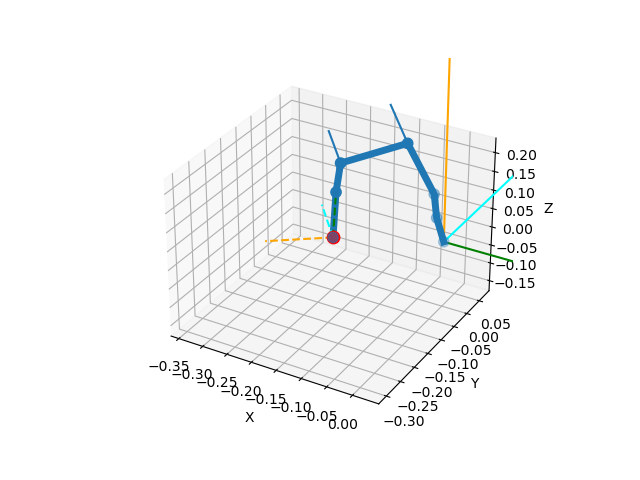
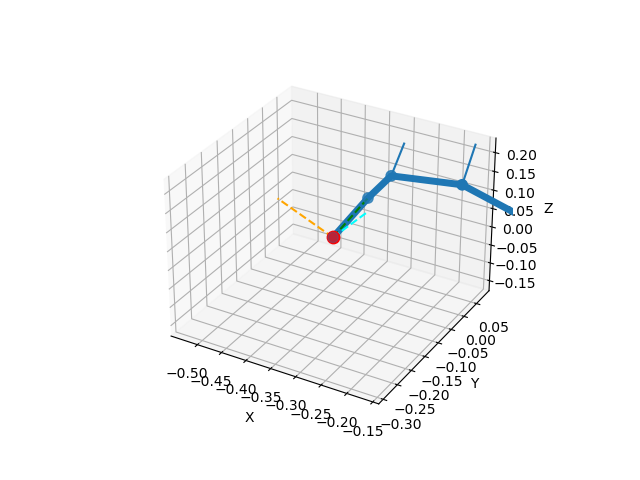
globalMin

Changed region(s): [[0.25, 0.125, 0.8125, 0.9062], [0.4375, 0.1875, 0.4688, 0.2188]]

diff --git a/controllers/gripper/gripper_globalMin.py b/controllers/gripper/gripper_globalMin.py
@@ -1,0 +1,312 @@
+import os
+import math
+import threading
+import queue
+import time
+import ikpy.chain
+import numpy as np
+import re
+import matplotlib.pyplot as plt
+import ikpy.utils.plot as plot_utils
+
+# 🌟 [추가된 부분] 유전 알고리즘(진화 연산) 도구 소환!
+from scipy.optimize import differential_evolution
+
+os.environ['WEBOTS_HOME'] = '/usr/local/webots'
+os.environ['WEBOTS_CONTROLLER_URL'] = "ipc://1234/MyRobot"
+
+from controller import Robot
+
+# ---------------------------------------------------------
+# 1⃣ [역기구학 세팅]
+# ---------------------------------------------------------
+print("🦴 URDF 뼈대 정보를 불러오는 중...")
+my_arm_chain = ikpy.chain.Chain.from_urdf_file(
+    "ikpy_robot.urdf", 
+    base_elements=["link0"], 
+    active_links_mask=[False, True, True, True, True, True, False]
+)
+
+print("✅ 로봇 내비게이션(IK) 준비 완료!")
+
+# ---------------------------------------------------------
+# 2⃣ [오프셋 & 부호 세팅]
+# ---------------------------------------------------------
+JOINT_OFFSETS = {
+    'joint_1': -0.07,
+    'joint_2': 1.774,
+    'joint_3': -1.182,
+    'joint_4': -1.237,
+    'joint_5': 0.0,
+    'joint_6': math.radians(-40) 
+}
+
+# 🚀 설계도(URDF)를 완벽하게 고쳤으므로 방향 강제 보정 해제!
+JOINT_SIGNS = {
+    'joint_1': 1,  
+    'joint_2': 1,  
+    'joint_3': 1,   
+    'joint_4': 1,
+    'joint_5': 1,
+    'joint_6': 1
+}
+
+robot = Robot()
+timestep = int(robot.getBasicTimeStep())
+
+motors = {}
+for name in JOINT_OFFSETS.keys():
+    motor = robot.getDevice(name)
+    if motor:
+        motor.setVelocity(1.0)
+        motors[name] = motor
+
+same_dir_joints = ['joint_6_mimic_L1', 'joint_6_mimic_R2', 'joint_6_mimic_R3', 'joint_6_mimic_gear', 'joint_6_mimic_R1', 'joint_6_mimic_L2', 'joint_6_mimic_L3']
+same_motors = [robot.getDevice(name) for name in same_dir_joints if robot.getDevice(name)]
+
+def set_motor_angle_rad(motor_name, target_angle_rad):
+    if motor_name in motors:
+        sign = JOINT_SIGNS.get(motor_name, 1)
+        corrected_target = target_angle_rad * sign
+        offset_rad = JOINT_OFFSETS.get(motor_name, 0.0)
+        final_rad = corrected_target + offset_rad
+        motors[motor_name].setPosition(final_rad)
+        return final_rad
+    return None
+
+# ---------------------------------------------------------
+# 3⃣ [수동 검증 터미널 쓰레드] 웅철이 맞춤형 디버깅 툴!
+# ---------------------------------------------------------
+command_queue = queue.Queue()
+
+def terminal_input_thread():
+    print("\n=======================================================")
+    print(" 🛠 IK 디버깅 모드 (계산 따로, 조종 따로!)")
+    print(" 1. 계산 명령: calc X Y Z (예: calc 0.2 0.0 0.1)")
+    print(" 2. 개별 관절 이동: j관절번호 각도 (예: j1 45, j2 -30)")
+    print(" 3. 집게 이동: grip 각도 (예: grip 10)")
+    print(" (종료하려면 exit 입력)")
+    print("=======================================================\n")
+    
+    while True:
+        try:
+            # 1. 입력 받기
+            raw_input = input("\n명령 입력 (calc/j1~5/grip): ")
+            user_input = raw_input.strip()
+            
+            # 🔍 [디버깅 1] 입력된 문자열의 정체 확인
+            print(f"🔍 DEBUG: 원본 문자열 -> '{user_input}' (길이: {len(user_input)})")
+            
+            if not user_input:
+                continue
+            if user_input.lower() == 'exit':
+                os._exit(0)
+            
+            # 2. 단어 분리
+            parts = user_input.split()
+            print(f"🔍 DEBUG: 분리된 단어들 -> {parts} (개수: {len(parts)})")
+            
+            if not parts:
+                continue
+                
+            cmd = parts[0].lower()
+            
+            # 💡 [모드 1] 역기구학 계산
+            # 💡 [모드 1] 역기구학 계산 및 각도 출력
+            if cmd == 'calc':
+                if len(parts) != 4:
+                    print(f"❌ 좌표가 부족합니다! 예: calc 0.2 0 0.1")
+                    continue
+                
+                try:
+                    x = float(parts[1])
+                    y = float(parts[2])
+                    z = float(parts[3])
+                except ValueError as ve:
+                    print(f"🔥 [숫자 변환 실패] 오타가 없는지 확인해주세요: {ve}")
+                    continue
+                
+                # 1. 🌟 [부활!] 현재 로봇 자세 읽어오기 (기준점 역할)
+                current_ik_angles = [0.0] * len(my_arm_chain.links)
+                for i in range(1, 6): 
+                    j_name = f'joint_{i}'
+                    if j_name in motors:
+                        real_pos = motors[j_name].getTargetPosition()
+                        sign = JOINT_SIGNS.get(j_name, 1)
+                        offset = JOINT_OFFSETS.get(j_name, 0.0)
+                        calc_angle = (real_pos - offset) / sign
+                        low, up = my_arm_chain.links[i].bounds
+                        current_ik_angles[i] = max(low, min(calc_angle, up))
+
+                # ---------------------------------------------------------
+                # 🌟 [유전 알고리즘(GA) 기반 역기구학 엔진] 🌟
+                # ---------------------------------------------------------
+                target_pos = np.array([x, y, z])
+                
+                # 1. 적합도 평가 함수 (Fitness Function): 점수가 낮을수록(오차가 적을수록) 우수한 개체!
+                def fitness_function(angles):
+                    # 🌟 [웅철이의 천재적 꼼수!] J5(인덱스 4)를 강제로 -J1(인덱스 0)으로 덮어쓰기!
+                    modified_angles = list(angles)
+                    modified_angles[4] = -modified_angles[0]
+                    
+                    test_angles = [0.0] + modified_angles + [0.0]
+                    fk_matrix = my_arm_chain.forward_kinematics(test_angles)
+                    tcp_pos = fk_matrix[:3, 3] 
+                    
+                    # 1. 위치 오차 (이게 유일한 최우선 목표가 됨!)
+                    error = np.linalg.norm(tcp_pos - target_pos)
+                    
+                    # 1. 위치 오차 (XYZ 거리 맞추기)
+                    error = np.linalg.norm(tcp_pos - target_pos)
+                    
+                    
+                    # 3. 바닥 관통 패널티 (충돌 방지)
+                    fk_all = my_arm_chain.forward_kinematics(test_angles, full_kinematics=True)
+                    if fk_all[6][2, 3] < 0.0 or fk_all[5][2, 3] < 0.0:
+                        error += 100.0 
+                        
+                    # 4. 전체 관절 이동 최소화 패널티 (부드러운 움직임 유지)
+                    current_joints = np.array(current_ik_angles[1:6])
+                    angle_diff = np.sum(np.abs(np.array(angles) - current_joints))
+                    error += angle_diff * 0.01 
+                        
+                    return error
+
+                # 2. 유전자(관절)의 절대 한계치(Bounds) 설정
+                # URDF에 적어둔 limit 값을 읽어와서 모터가 물리적 한계를 넘지 않게 강제함
+                bounds = []
+                for i in range(1, 6):
+                    bounds.append(my_arm_chain.links[i].bounds)
+
+                print("🧬 유전 알고리즘 탐색 시작... (최적의 안전한 자세를 진화시키는 중!)")
+                
+                # 3. 진화 시작! (differential_evolution)
+                # popsize=15 (15배수의 낙하산 부대 투입), maxiter=50 (50세대까지 진화)
+                result = differential_evolution(
+                    fitness_function, 
+                    bounds, 
+                    strategy='best1bin', 
+                    popsize=15, 
+                    maxiter=50,
+                    tol=1e-3
+                )
+                
+                # 4. 진화의 최종 승리자(가장 목표에 가깝고 바닥도 안 뚫는 각도) 추출!
+                best_angles = list(result.x)
+                best_angles[4] = -best_angles[0] # J5를 다시 한번 확실하게 -J1으로 묶어줌
+                ik_target = [0.0] + best_angles + [0.0]
+                
+                print(f"🧬 진화 완료! (목표 오차: {result.fun:.5f} m)")
+                
+                # ---------------------------------------------------------
+                # (이 아래부터는 원래 있던 디버깅 출력 코드와 자동 이동 코드가 그대로 이어짐)
+                # 💡 [디버깅] ikpy가 계산한 모든 관절의 실제 3D 좌표 뽑아보기!
+                # ...
+
+                # ... (역기구학 계산 완료 직후) ...
+                
+                # 💡 [디버깅] ikpy가 계산한 모든 관절의 실제 3D 좌표 뽑아보기!
+                fk_all = my_arm_chain.forward_kinematics(ik_target, full_kinematics=True)
+                j5_z = fk_all[5][2, 3]  # Index 5 (J5)의 Z 높이
+                tcp_z = fk_all[6][2, 3] # Index 6 (TCP)의 Z 높이
+                
+                print("\n🕵♂ --- ikpy 뇌 속의 실제 높이(Z) 검증 ---")
+                print(f"  👉 J5의 높이 : {j5_z:.4f} m (바닥에서 15cm 이상 떠있어야 정상!)")
+                print(f"  👉 TCP의 높이: {tcp_z:.4f} m (빨간 공 높이 0.0149 근처면 완벽 성공!)")
+                print("------------------------------------------")
+
+                # 🚀 1. 3D 그래프 창 세팅
+                fig, ax = plot_utils.init_3d_figure()
+
+                # 🚀 2. 뼈대 그리기
+                my_arm_chain.plot(ik_target, ax, target=[x, y, z])
+
+                # 🚀 3. 축 범위 설정 (줌인: 물체 좌표 근처로 좁힘)
+                #target_x = -0.262 근처
+                #target_y = 0.0147 근처
+                #target_z = 0.0149 근처
+
+                zoom_range = 0.2  # 👈 중심에서 ±10cm만 보이게 세팅
+
+                ax.set_xlim(x - zoom_range, x + zoom_range) # x: [-0.362, -0.162]
+                ax.set_ylim(y - zoom_range, y + zoom_range) # y: [-0.085, 0.115]
+                ax.set_zlim(z - zoom_range, z + zoom_range) # z: [-0.085, 0.115]
+
+                # 🚀 4. 파일로 저장
+                plt.savefig("ik_debug_plot_zoomed.png")
+                plt.close(fig)
+                print("📸 뼈대가 확대된 'ik_debug_plot_zoomed.png' 파일로 저장되었습니다!")
+
+                # 💡 웅철이의 원래 깔끔한 출력 코드로 복구!
+                print("\n📊 --- IK 수학 계산 결과 ---")
+                print(f"🎯 목표 좌표: X={x}, Y={y}, Z={z}")
+                for i in range(1, 6): 
+                    deg = math.degrees(ik_target[i]) # 라디안 -> 도로 변환
+                    print(f"  👉 joint_{i} : {deg:8.2f} 도")
+                print("----------------------------")
+                print("💡 확인 완료! 이제 'j1 45' 처럼 명령어를 쳐서 진짜로 닿는지 확인해보세요.")
+            
+                print("----------------------------")
+                print("💡 계산 완료! 이제 로봇이 1번 관절부터 차례대로 자동 이동합니다 🚀")
+                
+                # 🌟 [여기서부터 자동화 마법 시작!] 🌟
+                for i in range(1, 6):
+                    j_name = f'joint_{i}'
+                    
+                    # ikpy가 계산해 낸 순수 정답 각도 (라디안)
+                    pure_rad = ik_target[i] 
+                    
+                    # 1. 큐에 이동 명령 넣기 (웅철이가 'j1 45' 친 거랑 똑같은 효과!)
+                    # 💡 set_motor_angle_rad 함수가 오프셋을 알아서 더해주니까 순수 각도만 넘기면 돼!
+                    command_queue.put(('move', j_name, pure_rad))
+                    print(f"  👉 [{j_name}] 목표 각도로 이동 중...")
+                    
+                    # 2. 다음 관절이 움직이기 전까지 1.5초 대기 (차례대로 움직이게 하는 핵심!)
+                    time.sleep(1.5) 
+                    
+                print("\n✅ 모든 관절 이동 완료! TCP가 목표 좌표에 도달했습니다! 🎯")
+
+            # 💡 [모드 2] 개별 관절 이동 (j1~j5) - 웅철이 원본 코드로 완벽 복구!
+            elif cmd.startswith('j') and len(cmd) == 2 and cmd[1].isdigit() and len(parts) == 2:
+                j_num = cmd[1]
+                deg = float(parts[1])
+                rad = math.radians(deg)
+                command_queue.put(('move', f'joint_{j_num}', rad))
+                print(f"🚀 joint_{j_num} 을(를) {deg}도로 이동!")
+            # 💡 [모드 3] 집게 이동
+            elif cmd == 'grip' and len(parts) == 2:
+                grip_deg = float(parts[1])
+                command_queue.put(('grip', 'joint_6', math.radians(grip_deg)))
+                print(f"🤏 그리퍼 {grip_deg}도 조작!")
+                
+            else:
+                print("❌ 명령 형식이 틀렸습니다. (예: calc 0.2 0 0.1 / j2 45)")
+
+        # ... (기존 코드) ...
+        except ValueError as ve:
+            # 💡 단순히 "숫자 이상해"라고 하지 말고, 진짜 무슨 에러인지 찍어보자!
+            print(f"🔥 진짜 에러 발생: {ve}") 
+        except Exception as e:
+            print(f"❌ 예상치 못한 오류: {e}")
+            
+threading.Thread(target=terminal_input_thread, daemon=True).start()
+
+# ---------------------------------------------------------
+# 4⃣ [메인 루프] 
+# ---------------------------------------------------------
+for joint_name in JOINT_OFFSETS.keys():
+    if joint_name == 'joint_6':
+        set_motor_angle_rad('joint_6', math.radians(70))
+    else:
+        set_motor_angle_rad(joint_name, 0.0)
+
+while robot.step(timestep) != -1:
+    while not command_queue.empty():
+        cmd_type, joint_name, target_rad = command_queue.get()
+        if joint_name in motors:
+            set_motor_angle_rad(joint_name, target_rad)
+
+    if 'joint_6' in motors:
+        target_pos_rad = motors['joint_6'].getTargetPosition()
+        for m in same_motors:
+            m.setPosition(target_pos_rad)
